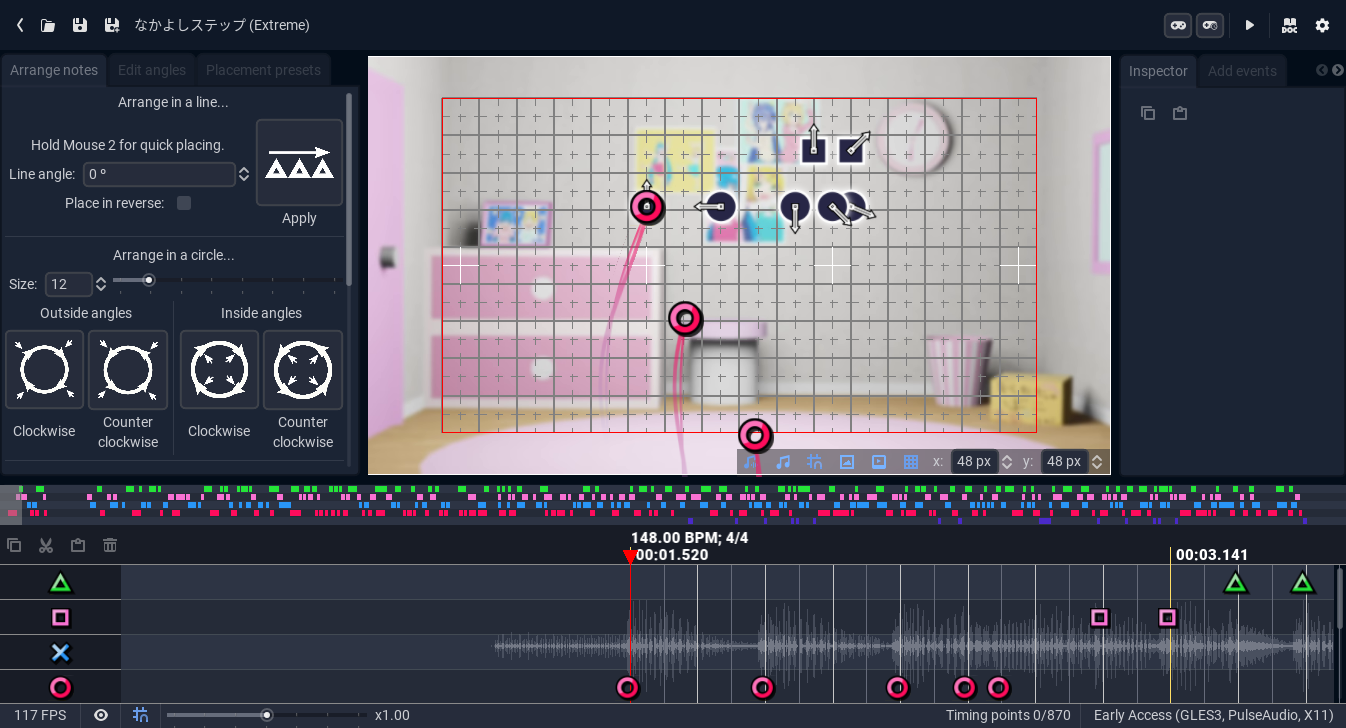
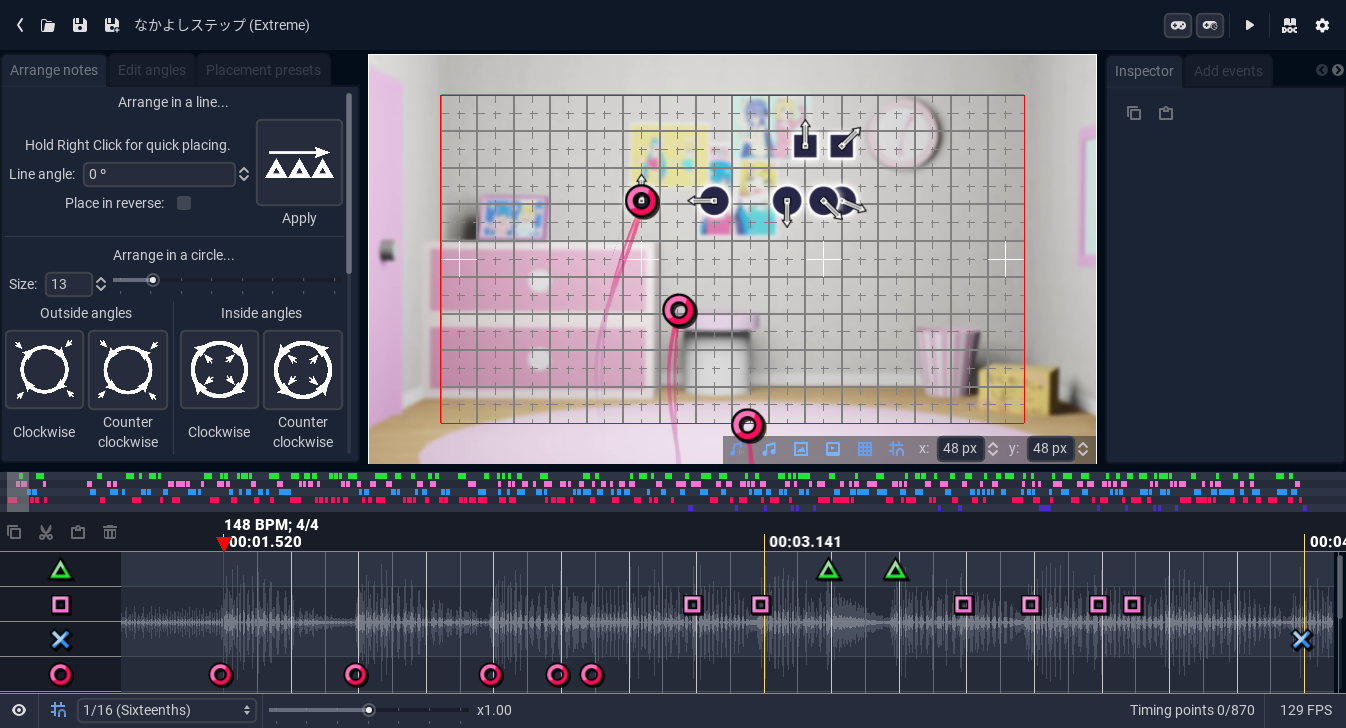
Update documentation to reflect the current beta.

diff --git a/src/manual/settings/shortcuts.md b/src/manual/settings/shortcuts.md
@@ -5,18 +5,33 @@ Shortcuts are in no way mandatory, and a lot of the things you can do with them 
 
 ## The Shortcuts Manager
 
-In the settings tab lies the ***Shortcut Manager***, which is used to view and edit shortcuts. In it, you will see a list of all the shortcuts, used or unused, alongside of a brief description of what they do. You will also see a button to **reset all shortcuts**.
+In the settings tab lies the ***Shortcut Manager***, which is used to view and edit shortcuts. In it, you will see a list of all the categories, which you can open to reveal the list of shortcuts, alongside of a brief description of what they do. You will also see a button to **reset all shortcuts**.
 
-![The Shortcut Manager](media/shortcuts_manager.png)
+![The Shortcut Manager, with all categories collapsed](media/shortcuts/shortcuts_manager.png)
+![The Shortcut Manager, with the Sync category expanded](media/shortcuts/shortcuts_manager_sync.png)
 
-If you double click on a shortcut, you will open a dialog to **edit it**. Press any key combinations or mouse buttons to set the new shortcut. You can also press ***Clear*** to remove the shortcut, or ***Reset to default*** to reset it. Once you are done, click *OK*.
+Each entry corresponds to an *action*, and it has the name of the action in the top row. Below it there is a list of all the shortcuts that are *assigned to this action*.
 
-![Editing a shortcut](media/editing_shortcut.png)
+![The Note Up action](media/shortcuts/note_up_action.png)
+
+Pressing the *plus icon* will open a dialog to **add a new shortcut** to this action. *Double clicking* on an assigned shortcut will open a similar dialog to **edit it**. You can press any key combination or mouse button to set the new shortcut. Once you are done, press *OK*.
+
+![Editing a shortcut](media/shortcuts/editing_shortcut.png)
 
 The valid types of shortcuts are:
 * A *key*
-* A *mouse button* (wheel up/down counts)
+* A *mouse button* (wheel up/down counts)[^valid_shortcuts_note]
 * One of the above, combined with **one or more** of *Control*, *Shift*, *Alt* or *Meta* (The windows key on most keyboards)
+
+If you assign the same shortcut to 2 different actions, the text will be *red*[^conflicting_bindings_note].
+
+![Setting a conflicting shortcut](media/shortcuts/conflicting_shortcut.png)
+
+If you still want to proceed, it will let you choose between *adding the shortcut anyways*, *removing the binding from other actions* and *going back*.
+
+![Resolving a conflict](media/shortcuts/conflict_resolution.png)
+
+Pressing the *trash icon* will **remove the selected shortcut**, and pressing the *reset icon* will **reset this action to its default mapping**.
 
 ## The Shortcut Map
 
@@ -60,3 +75,7 @@ You can ***filter the shortcuts by category*** by using the dropdown in the left
     </div>
 </div>
 <!-- End of Shortcut Mapper code -->
+
+[^valid_shortcuts_note]: Some actions with originally keyboard-only bindings dont work when setting a mouse binding, and viceversa. We are trying to fix this, so if you find such a case, please report it!
+
+[^conflicting_bindings_note]: Not all actions conflict with each other. Some actions will never interfere with some others, so they are hard-coded as non-conflicting.

diff --git a/src/manual/editor_anatomy.md b/src/manual/editor_anatomy.md
@@ -96,11 +96,11 @@ The Timeline Footer is divided in 2 parts: The *left side* and the *right side*.
 
 ![The left side of the Timeline Footer](media/editor_anatomy/timeline_footer_left.png)
 
-The left side contains an **FPS counter**, a button to open the [layer manager](settings/local.md#layers), a button to [toggle timeline snap](timeline/sync.md#snap) and the [speed slider](chart_preview/speed_controls.md).
+The left side contains a button to open the [layer manager](settings/local.md#layers), a button to [toggle timeline snap](timeline/sync.md#snap), a dropdown to select a [timeline resolution](timeline/sync.md#snap) and the [speed slider](chart_preview/speed_controls.md).
 
 ![The right side of the Timeline Footer](media/editor_anatomy/timeline_footer_right.png)
 
-The right side contains a **note counter**, and some debug info.
+The right side contains a **note counter**, and an **FPS counter**.
 
 # The different controls
 
